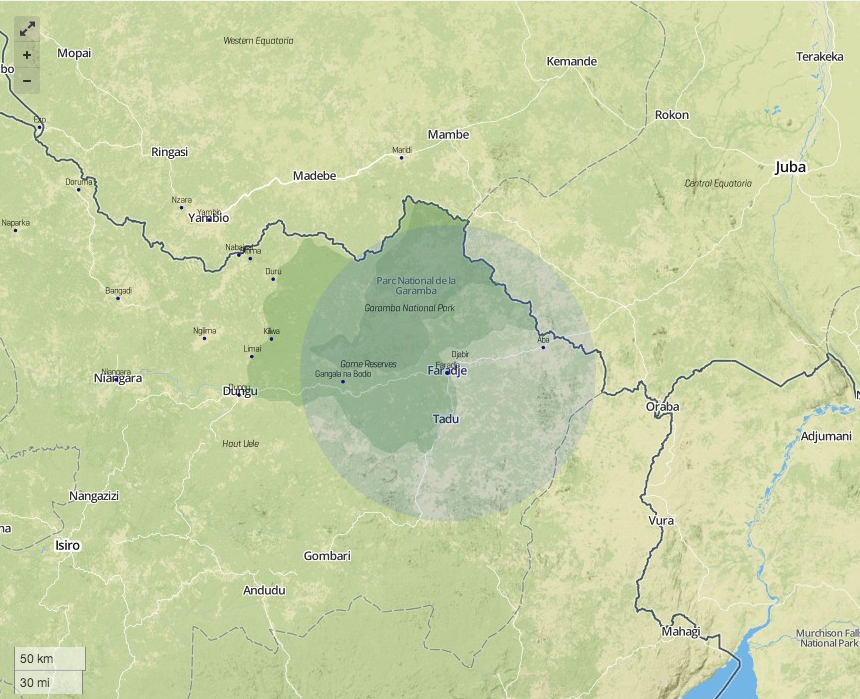
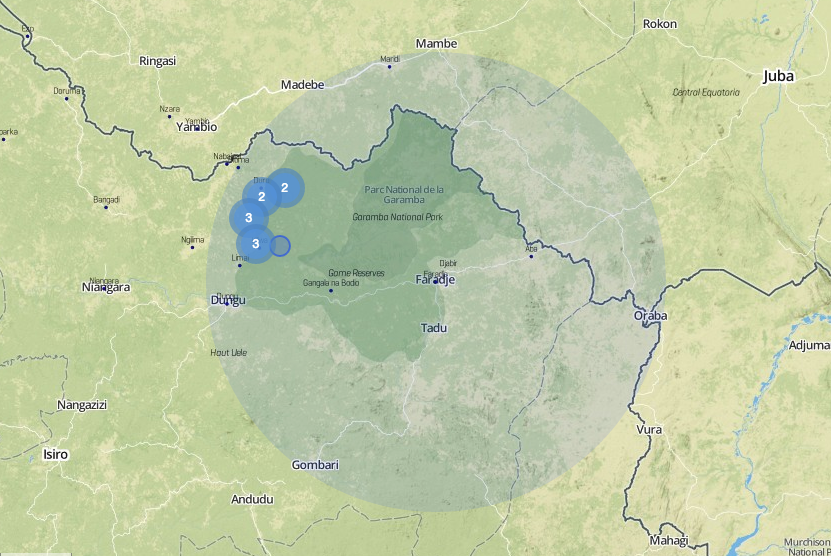
latest

diff --git a/en/q1-2014/index.html b/en/q1-2014/index.html
@@ -56,9 +56,26 @@ lang: en
 
 <p>Recent attack patterns in Haut Mbomou suggest LRA forces are taking advantage of the dry season to store up food and other supplies, but it remains unclear why they chose to target Haut Mbomou, where the presence of Ugandan and US troops has minimized LRA activity in recent years. The 17 attacks and 35 abductions in Haut Mbomou in Quarter 1 2014 approach or surpass yearly attack and abduction totals there in both 2012 and 2013.</p>
 
-<div id="Q12014_HM" class="visual" style="height: 350px; margin-top: 0px;"></div> 
+<div class="row">
+  <div class="col-md-4">
+    <p>Congolese civilians reported several LRA attacks and the presence of an LRA camp just across the border from Haut Mbomou, suggesting LRA groups may be based in Congo but committing attacks in Haut Mbomou to mask the location of their camps. Regardless, Uganda's redeployment of some troops from counter-LRA operations to the civil conflict in South Sudan may be hampering their ability to respond to LRA attacks in Haut Mbomou.</p> 
+  </div>
+  <div class="col-md-8">
+    <div id="Q12014_HM" class="visual" style="height: 275px; margin-top: 0px;"></div> 
+  </div>
+</div>
 
-<p>Congolese civilians reported several LRA attacks and the presence of an LRA camp just across the border from Haut Mbomou, suggesting LRA groups may be based in Congo but committing attacks in Haut Mbomou to mask the location of their camps. Regardless, Uganda's redeployment of some troops from counter-LRA operations to the civil conflict in South Sudan may be hampering their ability to respond to LRA attacks in Haut Mbomou.</p> 
+
+<a name="gnp" class="page-anchor"></a>
+<h3 class="page-title" id="gnp_title">I. Decline in LRA attacks near GNP</h3>
+<div id="twentytwentycontainer">
+ <!-- The before image is first -->
+ <img src="/data/faradje-before.png" />
+ <!-- The after image is last -->
+<img src="/data/faradje-after.png" />
+</div>
+<div id="Q12014_F" class="visual" style="height: 300px; margin-top: 0px;"></div> 
+
 
 <a name="congo" class="page-anchor"></a>
 <h3 class="page-title" id="congo_title" >II. LRA raids Niangara&ndash;Bangadi area with impunity</h3>
@@ -68,18 +85,22 @@ lang: en
 <p>LRA attacks in Haut Uele were concentrated near the communities of Niangara and Bangadi and occurred in three distinct waves. From February 2&ndash;17, LRA forces committed 11 attacks north of Niangara, near the village of Nambia, abducting 12 people and looting at least seven others of property. Civilians also encountered suspected LRA forces in the area three times, including two hunters who saw a large LRA camp near a stream 20km north of Nambia. Then, from February 22&ndash;25, LRA forces committed five attacks near Bangadi, 35km north of Nambia, abducting 22 people and looting 13 others. Finally, LRA forces returned to commit eight additional attacks on communities between Niangara and Bangadi from March 11&ndash;27.</p>
 
 <div class="map-title">LRA attacks Niangara and Bangadi | February&ndash;March 2014</div>
-
-<div class="map" id="nambia_map"></div>
 <button class="btn btn-primary map-animate-control">
   <i class="fa fa-play"></i>
 </button>
 <div class="map-date"></div>
+<div class="map" id="nambia_map"></div>
+
 
 <p></p>The close proximity of all 24 attacks suggests they were committed by a single LRA group, likely the one camped by the stream north of Nambia. The attacks were aimed primarily at attaining food and non-food items, such as corn, palm oil, machetes, boots, clothes, utensils, hunting rifles, and ammunition. As in CAR, LRA forces interrogated abductd people about the location of military deployments and patterns in local population movements.</p>
-
-<div id="Q12014_HU" class="visual" style="height: 350px; margin-top: 0px;"></div> 
-
-<p>Congolese troops and MONUSCO peacekeepers are deployed in both Bangadi and Niangara, within 30km of all 24 LRA attacks. MONUSCO troops also temporarily deployed to Nambia for several days beginning on February 15, after the LRA group had already committed nine attacks in the area and was beginning to shift north towards Bangadi. As military forces reacted slowly, some civilians reportedly temporarily left Nambia to seek greater security in Niangara. It remains unclear what impact, if any, MONUSCO or Congolese troops have deterring LRA activity in the area.</p>
+<div class="row">
+  <div class="col-md-4">
+    <p>Congolese troops and MONUSCO peacekeepers are deployed in both Bangadi and Niangara, within 30km of all 24 LRA attacks. MONUSCO troops also temporarily deployed to Nambia for several days beginning on February 15, after the LRA group had already committed nine attacks in the area and was beginning to shift north towards Bangadi. As military forces reacted slowly, some civilians reportedly temporarily left Nambia to seek greater security in Niangara. It remains unclear what impact, if any, MONUSCO or Congolese troops have deterring LRA activity in the area.</p>
+  </div>
+  <div class="col-md-8">
+    <div id="Q12014_HU" class="visual" style="height: 350px; margin-top: 0px;"></div> 
+  </div>
+</div>
 
 <a name="defection" class="page-anchor"></a>
 <h3 class="page-title" id="defection_title">III. Ugandan LRA combatants, women, children defect in the CAR </h3>
@@ -90,11 +111,11 @@ lang: en
   <div class='legend'>
     <div class='legend-item'>
       <span class="legend-item-marker" style="background-color: #2563A3"></span>  
-      <span class="legend-item-text">LRA Attacks</span>  
+      <span class="legend-item-text">2013</span>  
     </div>
     <div class='legend-item'>
-      <span class="legend-item-marker"></span>  
-      <span class="legend-item-text">Returnee Incidents</span>  
+      <span class="legend-item-marker" style="background-color: #4B4B4B"></span>
+      <span class="legend-item-text">2014</span>  
     </div>
   </div>
 </div>
@@ -123,10 +144,3 @@ lang: en
 <p>Kony was last confirmed to be in Kafia Kingi in March 2013, when he fled to CAR just before Ugandan troops launched an attack on his camps there. After a series of large-scale raids on Central African towns in the aftermathof the Ugandan operations, LRA forces went relatively silent.</p>
 
 <p>In December 2013, LRA activity in Haut Kotto began to increase. Since then, the LRA has committed nine attacks in the vicinity of Sam Ouandja, a diamond mining town just XX km from the border with Kafia Kingi. These attacks have been unusually violent, with many involving the abduction of large groups of people who are forces to porter looted supplies into the bush before being released. These attack patterns are very similar to those in 2010, and could indicate senior LRA officers such as Kony have returned to Kafia Kingi. Reports from several LRA fighters who defected in early 2014 also indicated Kony had returned Kafia Kingi by late 2013.</p>
-
-<div id="twentytwentycontainer">
- <!-- The before image is first -->
- <img src="/data/faradje-before.png" />
- <!-- The after image is last -->
-<img src="/data/faradje-after.png" />
-</div>

diff --git a/js/q1-2014-visual.js b/js/q1-2014-visual.js
@@ -5,6 +5,7 @@ $(function() {
     lat: 4.144433, 
     long: 27.867907, 
     zoom: 8, 
+    marker_radius: 4,
     csv_url: "/data/lra.csv",
     animate: false,
     start_date: null, 
@@ -14,10 +15,11 @@ $(function() {
   
   combatant_defections_map_options = {
     map_id: "combatant_defections_map",
-    lat: 4.144433, 
-    long: 27.867907, 
-    zoom: 8, 
-    csv_url: false,
+    lat: 6.226528, 
+    long: 25.816990, 
+    zoom: 6, 
+    marker_radius: 5,
+    csv_url: "/data/ugandan-combatant-returnees.csv",
     animate: false,
     start_date: null, 
     end_date: null,
@@ -29,6 +31,7 @@ $(function() {
     lat: 4.144433, 
     long: 27.867907, 
     zoom: 8, 
+    marker_radius: 4,
     csv_url: false,
     animate: false,
     start_date: null, 
@@ -38,9 +41,10 @@ $(function() {
   
   nambia_map_options = {
     map_id: "nambia_map",
-    lat: 4.144433, 
-    long: 27.867907, 
+    lat: 4.136,
+    long: 27.900, 
     zoom: 8, 
+    marker_radius: 4,
     csv_url: "/data/lra.csv",
     animate: true,
     start_date: "1-1-2010", 
@@ -124,6 +128,7 @@ function getVisualData() {
     buildHM();
     buildHU();
     buildCombatant();
+    buildF();
   });
 };
 
@@ -195,7 +200,7 @@ function buildHM() {
     // TRANSLATIONS
     if (language == "fr") {
     } else {
-      x_axis_categories = ['Q1 2010', 'Q2', 'Q3', 'Q4', 'Q1 2011', 'Q2', 'Q3', 'Q4', 'Q1 2012', 'Q2', 'Q3', 'Q4', 'Q1 2013', 'Q2', 'Q3', 'Q4', 'Q1 2014'];
+      x_axis_categories = ['2010','2011','2012','2013','2014'];
       series_name_1 = '# of attacks in Haut Mbomou';
       series_name_2 = '# of abductions in Haut Mbomou';
     };
@@ -243,7 +248,7 @@ function buildHM() {
             enabled: false
           }
         },
-        data: [38, 36, 42, 63, 112,  80, 47, 38, 65, 38, 36, 42, 63, 38, 36, 42, 63]
+        data: [45, 26, 18, 18, 17]
       }, {
         name: series_name_2,
         animation: false,
@@ -252,7 +257,7 @@ function buildHM() {
             enabled: false
           }
         },
-        data: [118, 92, 149, 82, 136, 67, 182, 38, 36, 42, 63, 198, 133, 38, 36, 42, 63]
+        data: [137, 109, 37, 25, 35]
       }]
     });
   }
@@ -312,7 +317,7 @@ function buildHU() {
             enabled: false
           }
         },
-        data: [38, 36, 42, 63, 112,  80, 47, 38, 65, 38, 36, 42, 63, 38, 36, 42, 63]
+        data: [131, 64, 69, 41, 66, 67, 36, 27, 82, 59, 37, 20, 37, 20, 31, 21, 36]
       }, {
         name: series_name_2,
         animation: false,
@@ -321,7 +326,7 @@ function buildHU() {
             enabled: false
           }
         },
-        data: [118, 92, 149, 82, 136, 67, 182, 38, 36, 42, 63, 198, 133, 38, 36, 42, 63]
+        data: [246, 72, 91, 56, 131, 80, 50, 17, 131, 58, 23, 33, 37, 25, 24, 23, 40]
       }]
     });
   }
@@ -391,6 +396,75 @@ function buildCombatant() {
           }
         },
         data: [118, 92, 149, 82, 136, 67, 182, 38, 36, 42, 63, 198, 133, 38, 36, 42, 63]
+      }]
+    });
+  }
+};
+
+function buildF() {
+  if ($('#Q12014_F').length) {
+
+    // TRANSLATIONS
+    if (language == "fr") {
+    } else {
+      x_axis_categories = ['Q1 2010', 'Q2', 'Q3', 'Q4', 'Q1 2011', 'Q2', 'Q3', 'Q4', 'Q1 2012', 'Q2', 'Q3', 'Q4', 'Q1 2013', 'Q2', 'Q3', 'Q4', 'Q1 2014'];
+      series_name_1 = '# of attacks within 140km of Faradje';
+      series_name_2 = '# of abductions within 140km of Faradje';
+    };
+
+    $('#Q12014_F').highcharts({
+      chart: {
+        type: 'line'
+      },
+      tooltip: {
+        formatter: function () {
+          return this.y;
+        }
+      },
+      colors: [dark_blue, light_blue],
+      title: {
+        text: ''
+      },
+      subtitle: {
+        text: ''
+      },
+      xAxis: {
+        categories: x_axis_categories
+      },
+      yAxis: {
+        min: 0,
+        gridLineColor: 'transparent',
+        title: {
+          text: ''
+        }
+      },
+      plotOptions: {
+        column: {
+          pointPadding: 0.2,
+          borderWidth: 0
+        }
+      },
+      credits: {
+        enabled: false
+      },
+      series: [{
+        name: series_name_1,
+        animation: false,
+        states: {
+          hover: {
+            enabled: false
+          }
+        },
+        data: [50, 21, 26, 17, 37, 29, 16, 13, 34, 17, 26, 11, 24, 13, 18, 9, 2]
+      }, {
+        name: series_name_2,
+        animation: false,
+        states: {
+          hover: {
+            enabled: false
+          }
+        },
+        data: [55, 29, 45, 18, 39, 38, 28, 14, 48, 21, 16, 27, 30, 6, 10, 5, 0]
       }]
     });
   }

diff --git a/js-libraries/map.js b/js-libraries/map.js
@@ -79,7 +79,7 @@ function animateMarkers(data, map_id) {
     $(".map-date").html(formatDate(data[x][0]))
     if (x++ < data.length) {
       if (run_animation == true) {
-        setTimeout(animate, 100);
+        setTimeout(animate, 200);
       };
     };
   };
@@ -127,7 +127,7 @@ function setupAnimation(csv_url, start_date, end_date, map_id) {
 
 // Variables
 var month_names = ["January", "February", "March", "April", "May", "June", "July", "August", "September", "October", "November", "December"];
-var basemap_id = 'ktransier.hm2e9p06';
+var basemap_id = 'ktransier.map-xya6pg28';
 
 // Helper functions
 function popup(point) {  
@@ -169,7 +169,7 @@ function buildMap(options) {
   } else if (!options.animate && options.csv_url) {
     $.get(options.csv_url, function(data) {
       data = $.csv.toObjects(data);
-      generateMarkers(data, map)    
+      generateMarkers(data, map, options)    
     });
   } else {
   };
@@ -177,7 +177,7 @@ function buildMap(options) {
   $('.mapbox-control-info').addClass('hide');
 };
 
-function generateMarkers(data, map) {
+function generateMarkers(data, map, options) {
   // Set variables
   var markers, marker;
   
@@ -198,7 +198,7 @@ function generateMarkers(data, map) {
           fillOpacity: 1
         });
       marker.bindPopup(popup(data[i]));
-      marker.setRadius(4);
+      marker.setRadius(options.marker_radius);
       map.addLayer(marker);
     };
   };

diff --git a/css-libraries/map.css b/css-libraries/map.css
@@ -96,6 +96,10 @@
   line-height: 30px;
 }
 
+.map-legends .map-legend {
+padding: 7px 10px 10px;
+}
+
 .legend-content {
 }
 
@@ -104,20 +108,24 @@
   margin-bottom: 8px;
   font-weight: bold;
   font-size: 13px;
-  }
+}
+
+.legend-item {
+  margin-bottom: -4px;
+}
 
 .legend-item-marker {
   border-radius: 50%;
-  width: 10px;
-  height: 10px;
+  width: 8px;
+  height: 8px;
   background-color: gray;
   float: left;
-  margin-top: 4px;
+  margin-top: 6px;
 }  
 
 .legend-item-text {
   margin-left: 7px;
-  font-weight: bold;
+  font-weight: 500;
   font-size: 11px;
 }
 
@@ -138,6 +146,16 @@
 
 .fullscreen-map {
   z-index: 1040;
+}
+
+.map-date {
+  float: right;
+  margin-top: 5px;
+}
+
+.map-animate-control {
+  float: right;
+  margin: 0px 0px 10px 10px;
 }
 
 

diff --git a/css/twentytwenty.css b/css/twentytwenty.css
@@ -100,12 +100,12 @@
 .twentytwenty-before-label {
   opacity: 0; }
   .twentytwenty-before-label:before {
-    content: "Before"; }
+    content: "Apr-Sept '13"; }
 
 .twentytwenty-after-label {
   opacity: 0; }
   .twentytwenty-after-label:before {
-    content: "After"; }
+     content: "Oct '13 - Mar '14"; }
 
 .twentytwenty-horizontal .twentytwenty-before-label:before {
   left: 10px; }
